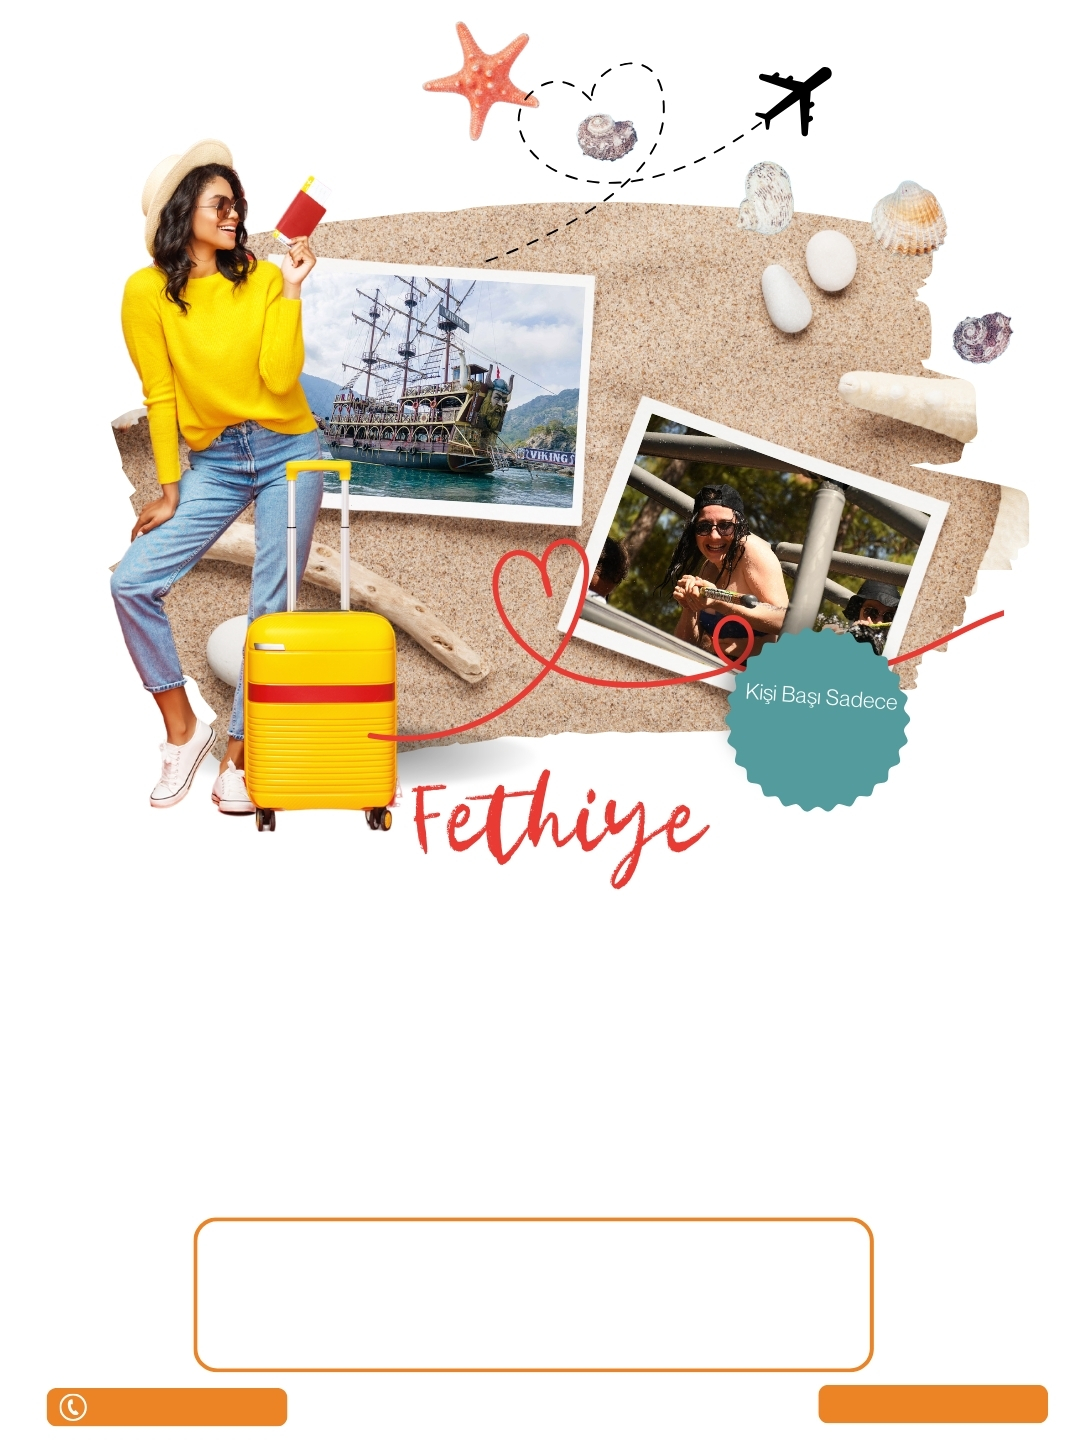
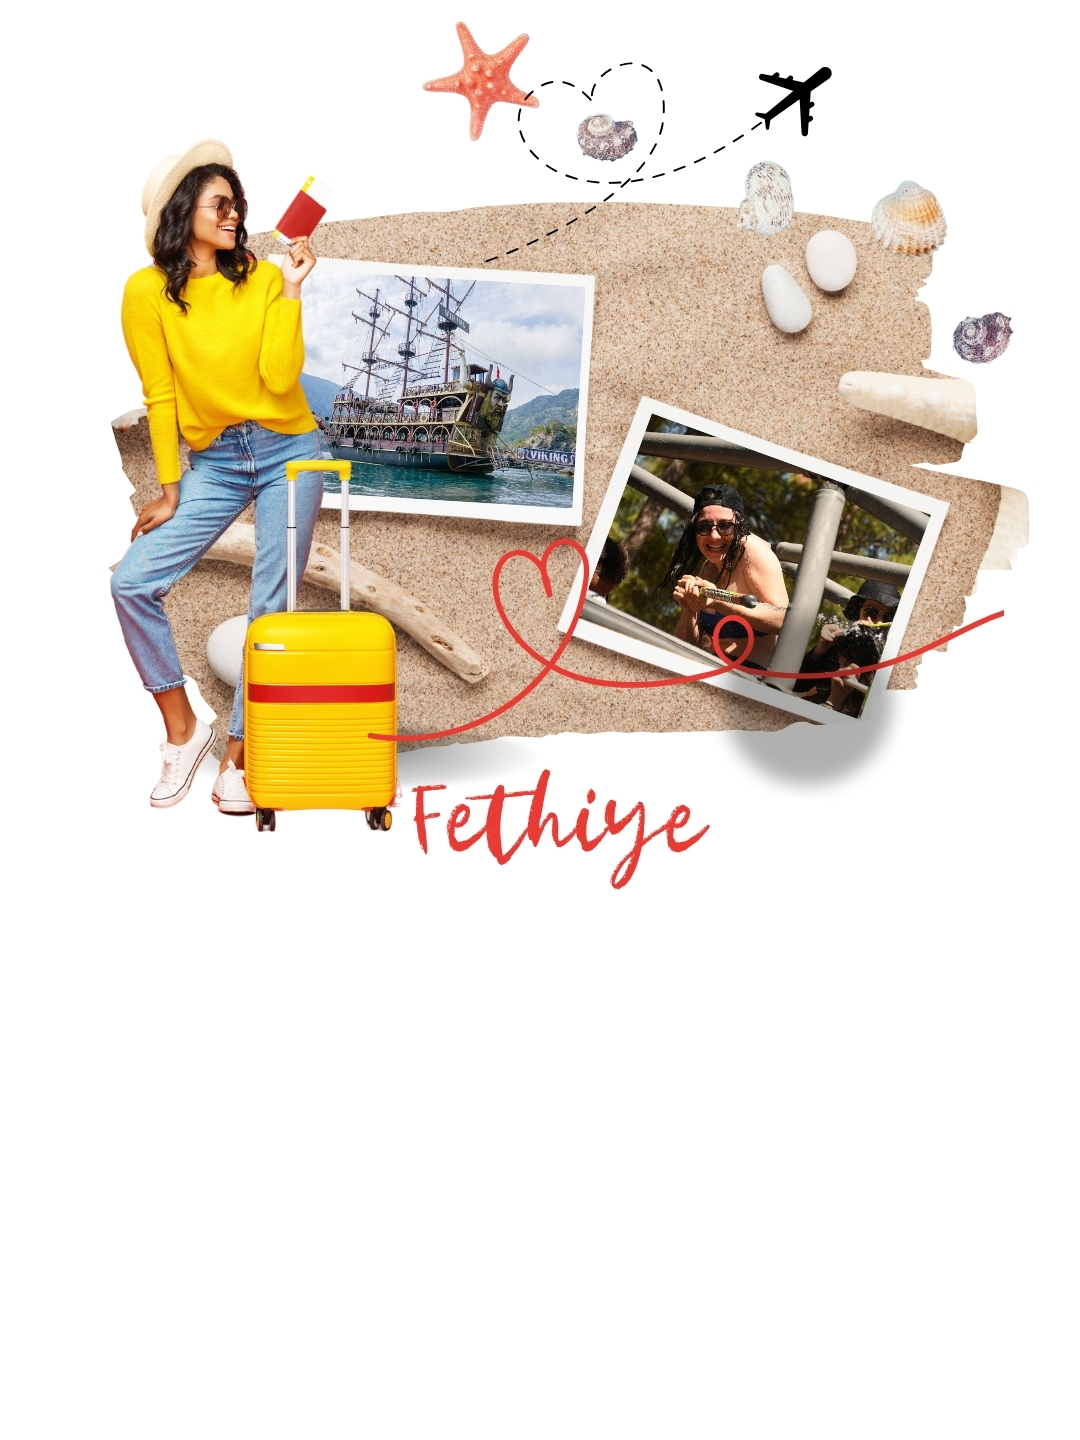
Görsel düzenlemeler: fiyat balonu %30 küçültüldü, 3 Gece 4 Gün beyaz kutuya alındı, yan hizmetler ortalandı ve font büyütüldü
Made-with: Cursor

Changed region(s): [[0.0306, 0.8438, 0.9778, 1.0], [0.6722, 0.4375, 0.8556, 0.5625]]

diff --git a/src/components/PaketGorsel.tsx b/src/components/PaketGorsel.tsx
@@ -73,11 +73,11 @@ export default function PaketGorsel({
         }
       }
 
-      // 3) Fiyat balonu — teal konuşma balonu, sağ üst-orta
-      const bubbleX = W * 0.52
+      // 3) Fiyat balonu — teal, %30 küçültülmüş
+      const bubbleX = W * 0.54
       const bubbleY = H * 0.28
-      const bubbleW = W * 0.42
-      const bubbleH = H * 0.16
+      const bubbleW = W * 0.42 * 0.7
+      const bubbleH = H * 0.16 * 0.7
       const r = Math.min(bubbleW, bubbleH) * 0.15
       context.fillStyle = '#0d9488'
       context.strokeStyle = '#ffffff'
@@ -99,23 +99,19 @@ export default function PaketGorsel({
 
       // 4) Otel ismi görselde asla yazılmaz (müşteriye verilmez).
 
-      // 5) "X GECE Y GÜN" ve "KONAKLAMA TİPİ" — kalın koyu, büyük harf
-      const mainY = H * 0.48
       const lineHeight = H * 0.038
-      context.fillStyle = '#1e293b'
-      context.font = `bold ${Math.round(W * 0.048)}px sans-serif`
-      context.fillText(`${geceSayisi} GECE ${geceSayisi + 1} GÜN`, W / 2, mainY)
-      context.fillText(konaklamaTipi.toUpperCase(), W / 2, mainY + lineHeight)
 
-      // 6) Aktiviteler — her biri ayrı satır, büyük harf
-      let actY = mainY + lineHeight * 2.2
+      // 5) Aktiviteler — kum alanında, büyük harf
+      let actY = H * 0.46
+      context.fillStyle = '#1e293b'
       context.font = `bold ${Math.round(W * 0.038)}px sans-serif`
+      context.textAlign = 'center'
       for (const ad of aktiviteAdlari) {
         context.fillText(ad.toUpperCase(), W / 2, actY)
         actY += lineHeight * 1.1
       }
 
-      // 7) Yan hizmetler / dahil bilgiler — turuncu çerçeveli kutu
+      // 6) Beyaz kutu — içinde "X GECE Y GÜN", "KONAKLAMA TİPİ" ve yan hizmetler
       const boxTop = H * 0.72
       const boxH = H * 0.14
       const boxPad = W * 0.04
@@ -129,13 +125,21 @@ export default function PaketGorsel({
       context.fill()
       context.stroke()
 
+      // 6a) Kutu içi: "3 GECE 4 GÜN" ve "YARIM PANSİYON" (beyaz alana taşındı)
+      const boxContentY = boxTop + boxPad + lineHeight * 0.6
+      context.fillStyle = '#1e293b'
+      context.font = `bold ${Math.round(W * 0.048)}px sans-serif`
+      context.textAlign = 'center'
+      context.fillText(`${geceSayisi} GECE ${geceSayisi + 1} GÜN`, W / 2, boxContentY)
+      context.fillText(konaklamaTipi.toUpperCase(), W / 2, boxContentY + lineHeight)
+
+      // 6b) Yan hizmetler — font biraz büyük, ortalanmış
       const inclusionLines = yanHizmetAdlari.length
         ? yanHizmetAdlari.join(' - ')
         : 'Açık Büfe Kahvaltı & Konaklama - Transferler'
       context.fillStyle = '#334155'
-      context.font = `${Math.round(W * 0.022)}px sans-serif`
-      context.textAlign = 'left'
-      wrapText(context, inclusionLines, boxX + boxPad, boxTop + boxPad, boxW - boxPad * 2, lineHeight * 1.2)
+      context.font = `${Math.round(W * 0.026)}px sans-serif`
+      wrapTextCenter(context, inclusionLines, W / 2, boxContentY + lineHeight * 2.2, boxW - boxPad * 2, lineHeight * 1.3)
 
       // 8) Alt iletişim çubuğu — telefon sol, web sağ, turuncu
       const barY = H * 0.90
@@ -270,4 +274,35 @@ function wrapText(
     }
   }
   if (line) ctx.fillText(line, x, currentY)
+}
+
+/** Satırları sarıp her satırı centerX'e göre ortalar */
+function wrapTextCenter(
+  ctx: CanvasRenderingContext2D,
+  text: string,
+  centerX: number,
+  startY: number,
+  maxWidth: number,
+  lineHeight: number
+) {
+  const words = text.split(/\s+/)
+  const lines: string[] = []
+  let line = ''
+  for (const word of words) {
+    const test = line + (line ? ' ' : '') + word
+    const m = ctx.measureText(test)
+    if (m.width > maxWidth && line) {
+      lines.push(line)
+      line = word
+    } else {
+      line = test
+    }
+  }
+  if (line) lines.push(line)
+  ctx.textAlign = 'center'
+  let currentY = startY
+  for (const ln of lines) {
+    ctx.fillText(ln, centerX, currentY)
+    currentY += lineHeight
+  }
 }
